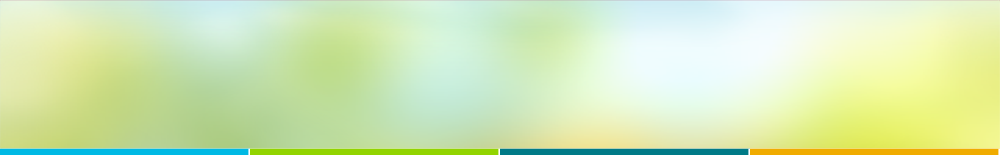
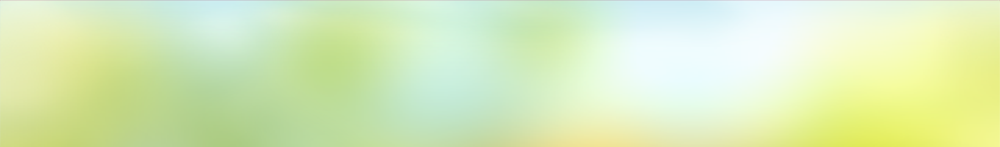
fixed the chart border colors

Changed region(s): [[0.0, 0.9524, 1.0, 1.0]]

diff --git a/css/project.css b/css/project.css
@@ -62,7 +62,7 @@ a:hover{
   width: 100px;
 }
 ul.chart{
-  margin: 5px 0 0 0;
+  margin: 0;
   padding: 0 0 5px 0;
   border-bottom: 1px solid #ccc;
 }
@@ -87,6 +87,25 @@ ul.chart li div:nth-child(2){
   color: #1e1e1e;
   font-size: 22pt;
 }
+ul.chart li.colors{
+  height: 5px;
+  margin-bottom: 5px;
+  border-right: 1px white solid;
+}
+ul.chart li.newfiles{
+  background: #00b9e4;
+}
+ul.chart li.qe{
+  background: #92d400;
+}
+ul.chart li.relprep{
+  background: #007a87;
+}
+ul.chart li.pushready{
+  background: #f0ab00;
+}     
+
+
 .clear{
   clear: both;
 }
@@ -146,6 +165,10 @@ table.list td:nth-child(1) span{
 }
 .footer ul li i{
   font-size: 19pt;
+}
+.footer ul li.active a:link,
+.footer ul li.active a:visited{
+  color: #e0293b;
 }
 
 /* Small devices (tablets, 768px and up) */

diff --git a/detail.html b/detail.html
@@ -19,10 +19,6 @@
 		</div>
 	</div>	
 	<ul class='chart'>
-		<li class='colors newfiles'></li>
-		<li class='colors qe'></li>
-		<li class='colors relprep'></li>
-		<li class='colors pushready'></li>
 		<li>
 			<div>NEW FILES</div>
 			<div>231</div>
@@ -172,7 +168,7 @@
 	</table>
 	<div class='footer'>
 		<ul>
-			<li class='active'>
+			<li>
 				<a href="#">
 					<i class="fa fa-home"></i>
 					<div>Home</div>
